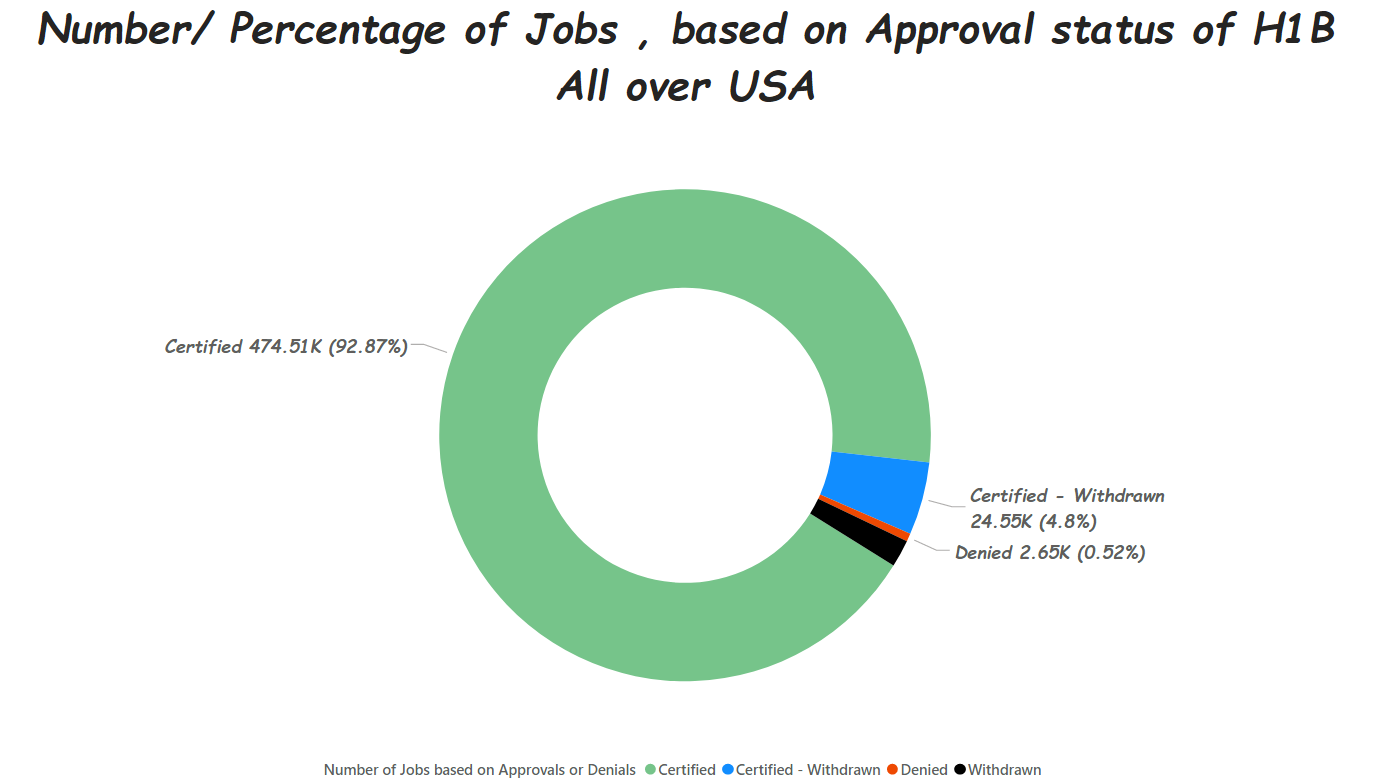
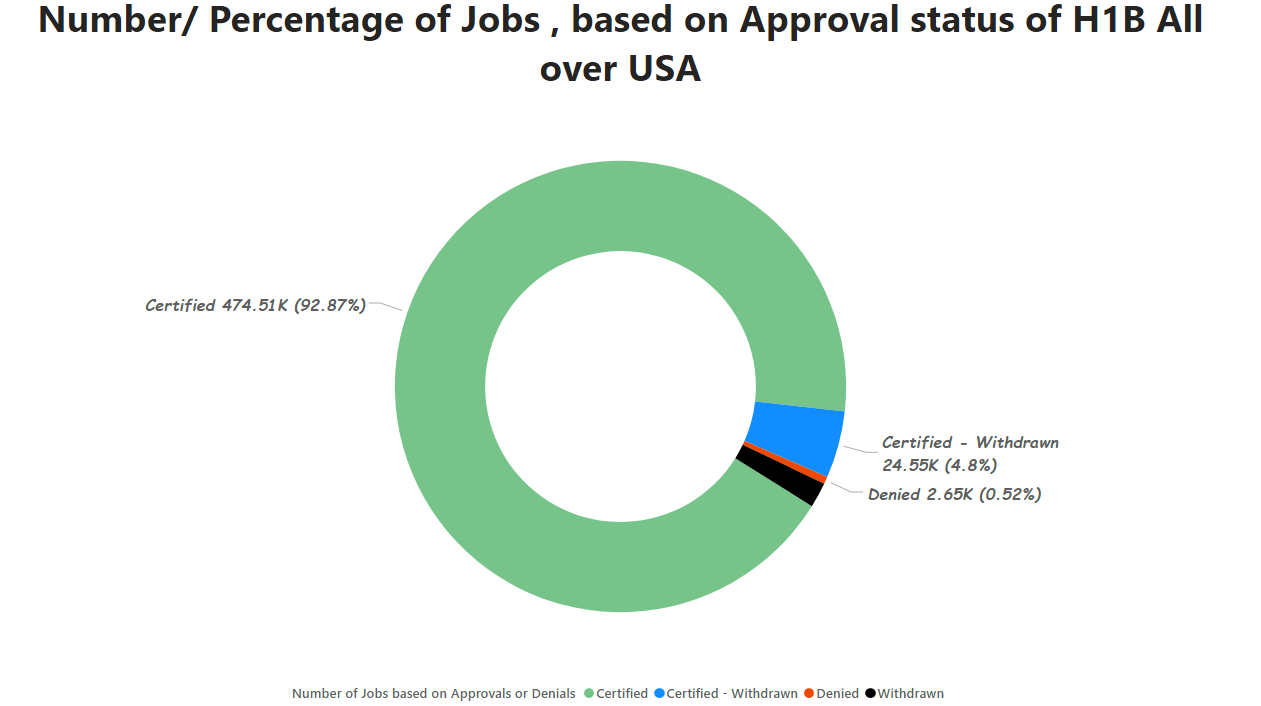
Add files via upload

diff --git a/h1breports.html b/h1breports.html
@@ -54,4 +54,7 @@
  <div class="main"></div>
 
  <img style ="width: 1200px; height: auto; align-self: center;  margin-left: 250px; margin-right: auto;"  src="h11.png" alt="FY 2021 - H1B REPORTS">
+ <br><br><br><br>
+ <img style ="width: 1200px; height: auto; align-self: center;  margin-left: 250px; margin-right: auto;"  src="h12.png" alt="FY 2021 - H1B REPORTS">
+
 </div>
